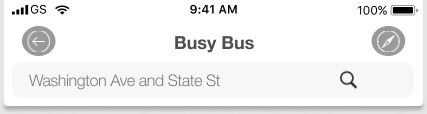
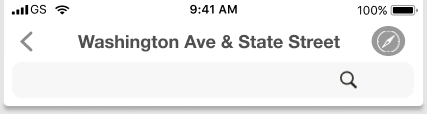
updatenav

Changed region(s): [[0.1827, 0.2895, 0.822, 0.4737], [0.0609, 0.6316, 0.5176, 0.7895], [0.0304, 0.2105, 0.1522, 0.5]]

diff --git a/css/style.css b/css/style.css
@@ -11,16 +11,16 @@ body {
 .container {
   margin: 0 auto;
   width: 420px;
+  background-color: #F9F9F9;
 }
 
 nav {
-  margin: 0 auto;
+  margin: auto;
   background-image: url(https://github.com/katrinalalata/frontendchallenge/blob/master/navwhite.jpg?raw=true);
-  background-size: cover;
   padding: 32px;
   position: fixed;
   width: 420px;
-  height: 120px;
+  height: 114px;
   background-color: #FFFFFF;
 }
 
@@ -39,7 +39,7 @@ nav {
 }
 
 .routes {
-  padding-top: 65px;
+  padding-top: 110px;
   width: 100%;
   background-color: #FFFFFF;
 

diff --git a/index.html b/index.html
@@ -13,8 +13,6 @@
         </div>
       </nav><div class="navbar">
       <section class="routes">
-        <div class="nav">
-          <section class="table">
         <div class="direction">
             <h1>Eastbound</h1>
           </div>
